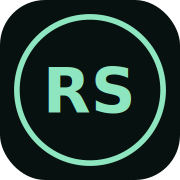
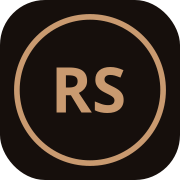
Add theme audit report and implement theme updates
- Consolidated theme tokens into a coffee/champagne palette
- Removed green/teal tokens and updated related assets
- Improved theme behavior and accessibility features
- Conducted contrast checks ensuring compliance with WCAG AA standards
- Documented findings for the admin panel and validation results
- Updated relevant files for theme changes and added hero image field for admin

Changed region(s): [[0.0556, 0.0556, 0.9444, 0.9444], [0.25, 0.3611, 0.75, 0.6389]]

diff --git a/frontend/web/src/styles/global.css b/frontend/web/src/styles/global.css
@@ -1,22 +1,43 @@
-@import url("https://fonts.googleapis.com/css2?family=DM+Sans:wght@400;500;600;700&family=Fraunces:opsz,wght@9..144,500;9..144,600;9..144,700&display=swap");
-@import url('https://fonts.googleapis.com/css2?family=DM+Sans:wght@400;500;600;700&family=Space+Grotesk:wght@400;500;600;700&display=swap');
+@import url("https://fonts.googleapis.com/css2?family=DM+Sans:wght@400;500;600;700&family=Space+Grotesk:wght@400;500;600;700&family=Fraunces:opsz,wght@9..144,500;9..144,600;9..144,700&display=swap");
 
 :root{
-  --bg:#07110f;--bg2:#0b1714;--surface:#10211d;--text:#f3f8f6;--muted:#9baaa5;
-  --line:rgba(243,248,246,.12);--accent:#c99a70;--accent2:#a97750;--white:#fff;--on-accent:#06110d;
+  color-scheme:dark;
+  --bg:#160f0c;
+  --bg2:#211611;
+  --surface:#2b1d16;
+  --text:#f5eee6;
+  --muted:#b7a79a;
+  --line:rgba(245,238,230,.12);
+  --accent:#c99a70;
+  --accent2:#a97750;
+  --accent-soft:rgba(201,154,112,.12);
+  --white:#fff8f0;
+  --on-accent:#1b110c;
+  --shadow:0 24px 80px rgba(0,0,0,.28);
 }
 :root[data-theme="light"]{
-  --bg:#f5f8f6;--bg2:#edf3ef;--surface:#fff;--text:#0a1713;--muted:#61716b;
-  --line:rgba(10,23,19,.13);--accent:#9b6847;--accent2:#785039;--white:#0a1713;--on-accent:#f5f8f6;
+  color-scheme:light;
+  --bg:#f5f0e9;
+  --bg2:#ebe1d6;
+  --surface:#fffaf4;
+  --text:#241912;
+  --muted:#75675c;
+  --line:rgba(36,25,18,.14);
+  --accent:#94613f;
+  --accent2:#785039;
+  --accent-soft:rgba(148,97,63,.13);
+  --white:#241912;
+  --on-accent:#fffaf4;
+  --shadow:0 24px 80px rgba(66,43,27,.12);
 }
-*{box-sizing:border-box}html{scroll-behavior:auto}body{margin:0;background:var(--bg);color:var(--text);font-family:"DM Sans",sans-serif;line-height:1.6}a{color:inherit;text-decoration:none}button,input,textarea{font:inherit}button{color:inherit}.container{width:min(1200px,calc(100% - 48px));margin:auto}.section-pad{padding:130px 0}.muted,.large-muted{color:var(--muted)}.large-muted{font-size:1.3rem;line-height:1.6;max-width:560px}.eyebrow{display:inline-flex;gap:8px;font-size:.68rem;letter-spacing:.18em;font-weight:700;color:var(--accent)}em{font-family:"Space Grotesk",sans-serif;color:var(--accent);font-style:normal}.scroll-progress{position:fixed;z-index:1000;left:0;top:0;width:100%;height:2px;background:transparent}.scroll-progress span{display:block;width:100%;height:100%;background:var(--accent);transform-origin:left}.nav-wrap{position:fixed;z-index:900;top:0;left:0;width:100%;background:linear-gradient(var(--bg),transparent);padding:18px 0}.nav{display:flex;align-items:center;justify-content:space-between}.brand{display:flex;align-items:center;gap:10px;font-size:.75rem;letter-spacing:.12em}.brand span{display:grid;place-items:center;width:34px;height:34px;border:1px solid var(--accent);border-radius:50%;color:var(--accent);font-weight:700;font-size:.72rem}.desktop-nav{display:flex;align-items:center;gap:20px}.desktop-nav a{font-size:.72rem;color:var(--muted);transition:.25s}.desktop-nav a:hover,.desktop-nav a.active{color:var(--text)}.nav-resume{display:flex;gap:5px;align-items:center;border:1px solid var(--line);padding:9px 12px;border-radius:999px}.icon-btn,.mobile-menu{border:1px solid var(--line);background:rgba(255,255,255,.03);width:38px;height:38px;border-radius:50%;display:grid;place-items:center;cursor:pointer}.mobile-menu{display:none}.mobile-overlay{position:fixed;inset:0;background:var(--bg);z-index:1001;padding:22px 24px;animation:fade .3s ease}.mobile-top{display:flex;justify-content:space-between}.mobile-links{display:flex;flex-direction:column;gap:10px;margin-top:100px}.mobile-links a{font:600 clamp(2.4rem,10vw,5rem) "Space Grotesk";color:var(--muted);animation:slideIn .55s both;animation-delay:calc(var(--i)*.06s)}.mobile-links a:hover{color:var(--text)}.mobile-foot{position:absolute;bottom:25px;color:var(--muted);font-size:.7rem;letter-spacing:.15em}.hero{min-height:100svh;position:relative;overflow:hidden;display:flex;align-items:center}.hero-grid{position:absolute;inset:0;background-image:linear-gradient(var(--line) 1px,transparent 1px),linear-gradient(90deg,var(--line) 1px,transparent 1px);background-size:90px 90px;mask-image:linear-gradient(to bottom,transparent,black 25%,black 75%,transparent);opacity:.25}.hero-glow{position:absolute;width:50vw;height:50vw;right:-10vw;top:5vh;border-radius:50%;background:radial-gradient(circle,rgba(201,154,112,.15),transparent 65%);filter:blur(20px)}.hero-inner{display:grid;grid-template-columns:1.15fr .85fr;align-items:center;gap:30px;position:relative}.hero-copy{padding-top:70px}.hero-eyebrow{animation:rise .8s .4s both}.hero h1,.page-hero h1{font:600 clamp(3rem,6.2vw,6.4rem)/.95 "Space Grotesk";letter-spacing:-.055em;margin:25px 0 30px;max-width:950px}.page-hero h1{font-size:clamp(2.1rem,4.2vw,3.6rem);line-height:1.08;margin:20px 0 22px}.hero h1 span{display:block}.hero h1 em{display:block}.hero-copy>p{max-width:600px;color:var(--muted);font-size:1.05rem}.hero-actions{display:flex;gap:12px;margin-top:35px}.magnetic-btn{display:inline-flex;align-items:center;gap:9px;background:var(--accent);color:var(--on-accent);border:0;padding:13px 17px;border-radius:999px;font-weight:700;font-size:.78rem;cursor:pointer;transition:transform .25s,box-shadow .25s}.magnetic-btn:hover{transform:translateY(-3px);box-shadow:0 15px 35px rgba(201,154,112,.14)}.magnetic-btn.secondary{background:transparent;color:var(--text);border:1px solid var(--line)}.hero-orb{height:600px;position:relative}.three-orb{height:100%;width:100%;min-height:400px}.orb-label{position:absolute;bottom:20%;right:4%;font-size:.62rem;letter-spacing:.2em;color:var(--muted)}.hero-bottom{position:absolute;bottom:25px;left:50%;transform:translateX(-50%);display:flex;justify-content:space-between;color:var(--muted);font-size:.62rem;letter-spacing:.18em}.statement{background:var(--surface)}.statement-grid{display:grid;grid-template-columns:1fr 3fr;gap:30px}.statement h2,.split h2,.cta h2,.contact-grid h2,.research-intro h2{font:500 clamp(1.8rem,3.6vw,3.6rem)/1.1 "Space Grotesk";letter-spacing:-.04em;margin:0}.section-title{display:grid;grid-template-columns:1fr 1fr;gap:40px;margin-bottom:70px}.section-title h2{font:500 clamp(1.8rem,3.2vw,3rem)/1.1 "Space Grotesk";letter-spacing:-.04em;margin:14px 0 0}.section-title p{color:var(--muted);max-width:520px;margin:auto 0}.project-grid{display:grid;grid-template-columns:repeat(2,1fr);gap:65px 25px}.project-card:nth-child(odd){margin-top:80px}.project-media{aspect-ratio:1.5;overflow:hidden;position:relative;background:var(--surface)}.project-media img{width:100%;height:100%;object-fit:cover;transition:transform .7s cubic-bezier(.2,.8,.2,1)}.project-card:hover img{transform:scale(1.04)}.project-index{position:absolute;left:18px;top:18px;font-size:.65rem;color:var(--accent)}.project-view{position:absolute;right:16px;bottom:16px;background:var(--accent);color:var(--on-accent);padding:11px 13px;border-radius:50px;display:flex;gap:5px;align-items:center;font-size:.68rem;font-weight:700;transform:translateY(8px);opacity:0;transition:.3s}.project-card:hover .project-view{opacity:1;transform:none}.project-info{display:flex;justify-content:space-between;gap:20px;padding:18px 2px}.project-info h3{font:500 clamp(1.5rem,2.5vw,2.3rem) "Space Grotesk";margin:7px 0 0}.project-year{font-size:.7rem;color:var(--muted);padding-top:23px}.center-link{text-align:center;margin-top:65px}.center-link a,.text-link{display:inline-flex;align-items:center;gap:6px;color:var(--accent);border-bottom:1px solid var(--line);padding-bottom:4px}.marquee{overflow:hidden;border-block:1px solid var(--line);white-space:nowrap;padding:22px 0;color:var(--accent);font:600 1rem "Space Grotesk";letter-spacing:.1em}.marquee-track{display:flex;width:max-content;animation:marquee 16s linear infinite}.marquee-track span{padding-right:0}.dark-panel{background:#050b09}.split{display:grid;grid-template-columns:1fr 1fr;gap:60px;align-items:center}.cta{background:var(--accent);color:var(--on-accent)}.cta .eyebrow{color:var(--on-accent)}.cta h2 em{color:var(--on-accent)}.page-hero{padding:190px 0 110px;background:radial-gradient(circle at 80% 20%,rgba(201,154,112,.08),transparent 32%);position:relative;overflow:hidden}.page-hero-glow{position:absolute;width:38vw;height:38vw;right:-8vw;top:-8vh;border-radius:50%;background:radial-gradient(circle,rgba(201,154,112,.14),transparent 65%);filter:blur(30px);pointer-events:none}.page-hero h1{max-width:1000px}.page-hero p{max-width:700px;color:var(--muted);font-size:1.1rem}.two-col{display:grid;grid-template-columns:1.2fr .8fr;gap:90px}.timeline article{border-top:1px solid var(--line);padding:28px 0}.timeline article>span{font-size:.7rem;color:var(--accent)}.timeline h3{font:500 1.55rem "Space Grotesk";margin:7px 0}.timeline b{font-size:.85rem}.timeline p{color:var(--muted);max-width:620px}.about-card{background:var(--surface);padding:40px;align-self:start;position:sticky;top:100px}.interest-list{display:flex;flex-wrap:wrap;gap:8px;margin:25px 0}.interest-list span,.skill-tags span,.detail-tags span{border:1px solid var(--line);padding:9px 12px;border-radius:999px;color:var(--muted);font-size:.72rem}.about-contact{border-top:1px solid var(--line);padding-top:25px;color:var(--muted);font-size:.8rem}.about-contact svg{vertical-align:middle;color:var(--accent);margin-right:8px}.skills-layout{display:grid;grid-template-columns:1fr 1fr;gap:1px;background:var(--line)}.skill-block{background:var(--bg);padding:45px;min-height:250px;position:relative}.skill-no{color:var(--accent);font-size:.65rem}.skill-block h3{font:500 2rem "Space Grotesk";margin:15px 0 25px}.skill-tags{display:flex;flex-wrap:wrap;gap:8px}.experience-list{border-top:1px solid var(--line)}.experience-item{display:grid;grid-template-columns:.6fr 1.4fr;gap:50px;padding:60px 0;border-bottom:1px solid var(--line)}.exp-year{color:var(--muted);font-size:.8rem}.experience-item h2{font:500 clamp(1.7rem,3.2vw,3.2rem) "Space Grotesk";margin:8px 0}.experience-item h4{color:var(--accent);margin:0 0 18px;font-size:.9rem}.experience-item p{max-width:700px;color:var(--muted)}.research-intro{display:grid;grid-template-columns:1fr 1fr;align-items:center}.research-intro .three-orb{height:500px}.light-section{background:var(--surface)}.publication-list article{display:grid;grid-template-columns:80px 1fr;gap:25px;border-top:1px solid var(--line);padding:32px 0}.publication-list article>span{color:var(--accent)}.publication-list h3{font:500 1.5rem/1.25 "Space Grotesk";margin:0 0 10px}.publication-list p{color:var(--muted)}.publication-list a{color:var(--accent);font-size:.8rem}.award-grid{display:grid;grid-template-columns:repeat(2,1fr);gap:1px;background:var(--line)}.award-grid div{background:var(--bg);padding:28px;display:grid;grid-template-columns:40px 1fr;gap:10px}.award-grid span{color:var(--accent);font-size:.7rem}.service-list{border-top:1px solid var(--line)}.service-list article{display:grid;grid-template-columns:70px 1fr 1fr 30px;align-items:center;gap:20px;padding:35px 0;border-bottom:1px solid var(--line)}.service-list article>span{color:var(--accent);font-size:.7rem}.service-list h2{font:500 2.3rem "Space Grotesk";margin:0}.service-list p{color:var(--muted);margin:0}.resume-actions{display:flex;justify-content:flex-end;gap:10px;margin-bottom:30px}.resume-sheet{background:#fff;color:#10211d;padding:60px;box-shadow:0 30px 80px rgba(0,0,0,.25)}.resume-head{display:flex;justify-content:space-between;border-bottom:2px solid #10211d;padding-bottom:25px}.resume-head h2{font:700 2.5rem "Space Grotesk";margin:0}.resume-head p{margin:5px 0}.resume-head span{font-size:.78rem;color:#61716b}.resume-mark{width:65px;height:65px;border-radius:50%;background:#10211d;color:#c99a70;display:grid;place-items:center;font-weight:700}.resume-columns{display:grid;grid-template-columns:1.2fr .8fr;gap:55px}.resume-section{padding-top:32px}.resume-section h3{font:700 1rem "Space Grotesk";text-transform:uppercase;letter-spacing:.12em;border-bottom:1px solid #c8d4cf;padding-bottom:10px}.resume-entry{padding:12px 0}.resume-entry b{display:block;font-size:.9rem}.resume-entry span{display:block;color:#4f7969;font-size:.72rem;margin:3px 0}.resume-entry strong{font-size:.78rem}.resume-entry p,.resume-section li,.skill-line p{font-size:.76rem;color:#5d6c66}.resume-section ul{padding-left:20px}.skill-line{padding:7px 0}.skill-line b{font-size:.75rem}.contact-grid{display:grid;grid-template-columns:1fr 1fr;gap:100px}.contact-info{display:flex;flex-direction:column;gap:17px;margin-top:40px}.contact-info a,.contact-info span{display:flex;align-items:center;gap:12px;color:var(--muted);font-size:.9rem}.contact-info svg{color:var(--accent)}.contact-form{display:flex;flex-direction:column;gap:20px}.contact-form label{font-size:.72rem;color:var(--muted);display:flex;flex-direction:column;gap:7px}.contact-form input,.contact-form textarea{border:0;border-bottom:1px solid var(--line);background:transparent;color:var(--text);padding:12px 0;outline:none;resize:vertical}.contact-form input:focus,.contact-form textarea:focus{border-color:var(--accent)}.form-status{font-size:.75rem;color:var(--accent)}.project-detail-hero{padding:0 0 70px}.project-detail-hero img{width:100%;display:block}.detail-grid{display:grid;grid-template-columns:.65fr 1.35fr;gap:100px}.detail-tags{display:flex;flex-wrap:wrap;gap:8px;margin:15px 0 35px}.detail-label{margin-top:15px}.detail-copy{display:flex;flex-direction:column;gap:20px}.detail-copy h2{font:500 clamp(1.7rem,3.2vw,3.2rem) "Space Grotesk";line-height:1.1;margin:0 0 55px}.detail-copy p{color:var(--muted);font-size:1.05rem;max-width:700px;margin:0 0 40px}.footer{padding:110px 0 25px;background:#050b09;--text:#f3f8f6;--muted:#9baaa5;--accent:#c99a70;--line:rgba(243,248,246,.12);color:var(--text)}.footer-top{display:flex;flex-wrap:wrap;gap:24px;justify-content:space-between;align-items:end;border-bottom:1px solid var(--line);padding-bottom:70px}.footer h2{font:500 clamp(2.2rem,5vw,4.8rem)/1.02 "Space Grotesk";letter-spacing:-.05em;margin:18px 0 0}.circle-arrow{width:70px;height:70px;border:1px solid var(--line);border-radius:50%;display:grid;place-items:center;color:var(--accent);flex-shrink:0;cursor:pointer;position:relative;z-index:5}.footer-grid{display:grid;grid-template-columns:1.3fr .7fr .7fr;gap:60px;padding:45px 0;border-bottom:1px solid var(--line)}.footer-links,.footer-social{display:flex;flex-direction:column;gap:10px}.footer-links a,.footer-social a{font-size:.78rem;color:var(--muted);display:flex;gap:8px;align-items:center}.footer-bottom{display:flex;justify-content:space-between;padding-top:20px;color:#6f7e78;font-size:.6rem;letter-spacing:.1em}.not-found{min-height:70vh}.cursor-dot,.cursor-ring{position:fixed;z-index:2000;pointer-events:none;left:-5px;top:-5px;border-radius:50%;transform:translate3d(-100px,-100px,0)}.cursor-dot{width:7px;height:7px;background:var(--accent)}.cursor-ring{width:34px;height:34px;border:1px solid var(--accent);margin-left:-14px;margin-top:-14px;transition:width .25s,height .25s,margin .25s,background .25s}.cursor-hover~.cursor-ring{width:55px;height:55px;margin-left:-24px;margin-top:-24px;background:rgba(201,154,112,.08)}.loader{position:fixed;z-index:1999;inset:0;background:var(--bg);display:flex;align-items:center;justify-content:center;flex-direction:column}.loader-mark{font:700 3rem "Space Grotesk";color:var(--accent)}.loader-line{width:150px;height:1px;background:var(--line);margin:20px}.loader-line span{display:block;width:100%;height:100%;background:var(--accent);transform-origin:left;animation:load 1.3s ease forwards}.loader p{font-size:.6rem;letter-spacing:.2em;color:var(--muted)}@keyframes load{from{transform:scaleX(0)}to{transform:scaleX(1)}}@keyframes rise{from{opacity:0;transform:translateY(20px)}to{opacity:1;transform:none}}@keyframes fade{from{opacity:0}to{opacity:1}}@keyframes slideIn{from{opacity:0;transform:translateY(20px)}to{opacity:1;transform:none}}@keyframes marquee{to{transform:translateX(-50%)}}@media(max-width:900px){.desktop-nav{display:none}.mobile-menu{display:grid}.hero-inner,.two-col,.research-intro,.contact-grid,.resume-columns{grid-template-columns:1fr}.hero{padding-top:100px}.hero-orb{height:400px}.statement-grid,.split{grid-template-columns:1fr}.section-title{grid-template-columns:1fr}.project-grid{grid-template-columns:1fr}.project-card:nth-child(odd){margin-top:0}.experience-item{grid-template-columns:1fr;gap:10px}.skills-layout,.award-grid{grid-template-columns:1fr}.service-list article{grid-template-columns:50px 1fr 30px}.service-list p{grid-column:2/4}.resume-sheet{padding:35px}.footer-grid{grid-template-columns:1fr 1fr}.detail-grid{grid-template-columns:1fr;gap:30px}}@media(max-width:600px){.container{width:min(100% - 30px,1200px)}.section-pad{padding:85px 0}.hero h1,.page-hero h1{font-size:clamp(3.2rem,15vw,5rem)}.hero-orb{height:330px}.hero-actions{flex-direction:column;align-items:flex-start}.hero-bottom{font-size:.5rem}.project-info{flex-direction:column}.project-year{padding:0}.skill-block{padding:30px}.footer-top{align-items:flex-start}.footer-grid{grid-template-columns:1fr}.footer-bottom{flex-direction:column;gap:8px}.resume-sheet{padding:22px}.resume-head h2{font-size:1.7rem}.resume-mark{width:50px;height:50px}.service-list h2{font-size:1.5rem}.service-list article{grid-template-columns:40px 1fr 25px}.service-list p{grid-column:2/4}.cursor-dot,.cursor-ring{display:none}}@media print{body{background:#fff;color:#10211d}.nav-wrap,.footer,.scroll-progress,.cursor-dot,.cursor-ring,.resume-actions,.page-hero{display:none!important}.resume-sheet{box-shadow:none;width:100%;margin:0;padding:0}.resume-head{margin-top:0}.resume-section{break-inside:avoid}.resume-entry{break-inside:avoid}.container{width:100%}}
+*{box-sizing:border-box}html{scroll-behavior:auto}body{margin:0;background:var(--bg);color:var(--text);font-family:"DM Sans",sans-serif;line-height:1.6}a{color:inherit;text-decoration:none}button,input,textarea{font:inherit}button{color:inherit}.container{width:min(1200px,calc(100% - 48px));margin:auto}.section-pad{padding:130px 0}.muted,.large-muted{color:var(--muted)}.large-muted{font-size:1.3rem;line-height:1.6;max-width:560px}.eyebrow{display:inline-flex;gap:8px;font-size:.68rem;letter-spacing:.18em;font-weight:700;color:var(--accent)}em{font-family:"Space Grotesk",sans-serif;color:var(--accent);font-style:normal}.scroll-progress{position:fixed;z-index:1000;left:0;top:0;width:100%;height:2px;background:transparent}.scroll-progress span{display:block;width:100%;height:100%;background:var(--accent);transform-origin:left}.nav-wrap{position:fixed;z-index:900;top:0;left:0;width:100%;background:linear-gradient(var(--bg),transparent);padding:18px 0}.nav{display:flex;align-items:center;justify-content:space-between}.brand{display:flex;align-items:center;gap:10px;font-size:.75rem;letter-spacing:.12em}.brand span{display:grid;place-items:center;width:34px;height:34px;border:1px solid var(--accent);border-radius:50%;color:var(--accent);font-weight:700;font-size:.72rem}.desktop-nav{display:flex;align-items:center;gap:20px}.desktop-nav a{font-size:.72rem;color:var(--muted);transition:.25s}.desktop-nav a:hover,.desktop-nav a.active{color:var(--text)}.nav-resume{display:flex;gap:5px;align-items:center;border:1px solid var(--line);padding:9px 12px;border-radius:999px}.icon-btn,.mobile-menu{border:1px solid var(--line);background:rgba(255,255,255,.03);width:38px;height:38px;border-radius:50%;display:grid;place-items:center;cursor:pointer}.mobile-menu{display:none}.mobile-overlay{position:fixed;inset:0;background:var(--bg);z-index:1001;padding:22px 24px;animation:fade .3s ease}.mobile-top{display:flex;justify-content:space-between}.mobile-links{display:flex;flex-direction:column;gap:10px;margin-top:100px}.mobile-links a{font:600 clamp(2.4rem,10vw,5rem) "Space Grotesk";color:var(--muted);animation:slideIn .55s both;animation-delay:calc(var(--i)*.06s)}.mobile-links a:hover{color:var(--text)}.mobile-foot{position:absolute;bottom:25px;color:var(--muted);font-size:.7rem;letter-spacing:.15em}.hero{min-height:100svh;position:relative;overflow:hidden;display:flex;align-items:center}.hero-grid{position:absolute;inset:0;background-image:linear-gradient(var(--line) 1px,transparent 1px),linear-gradient(90deg,var(--line) 1px,transparent 1px);background-size:90px 90px;mask-image:linear-gradient(to bottom,transparent,black 25%,black 75%,transparent);opacity:.25}.hero-glow{position:absolute;width:50vw;height:50vw;right:-10vw;top:5vh;border-radius:50%;background:radial-gradient(circle,rgba(201,154,112,.15),transparent 65%);filter:blur(20px)}.hero-inner{display:grid;grid-template-columns:1.15fr .85fr;align-items:center;gap:30px;position:relative}.hero-copy{padding-top:70px}.hero-eyebrow{animation:rise .8s .4s both}.hero h1,.page-hero h1{font:600 clamp(3rem,6.2vw,6.4rem)/.95 "Space Grotesk";letter-spacing:-.055em;margin:25px 0 30px;max-width:950px}.page-hero h1{font-size:clamp(2.1rem,4.2vw,3.6rem);line-height:1.08;margin:20px 0 22px}.hero h1 span{display:block}.hero h1 em{display:block}.hero-copy>p{max-width:600px;color:var(--muted);font-size:1.05rem}.hero-actions{display:flex;gap:12px;margin-top:35px}.magnetic-btn{display:inline-flex;align-items:center;gap:9px;background:var(--accent);color:var(--on-accent);border:0;padding:13px 17px;border-radius:999px;font-weight:700;font-size:.78rem;cursor:pointer;transition:transform .25s,box-shadow .25s}.magnetic-btn:hover{transform:translateY(-3px);box-shadow:0 15px 35px rgba(201,154,112,.14)}.magnetic-btn.secondary{background:transparent;color:var(--text);border:1px solid var(--line)}.hero-orb{height:600px;position:relative}.three-orb{height:100%;width:100%;min-height:400px}.orb-label{position:absolute;bottom:20%;right:4%;font-size:.62rem;letter-spacing:.2em;color:var(--muted)}.hero-bottom{position:absolute;bottom:25px;left:50%;transform:translateX(-50%);display:flex;justify-content:space-between;color:var(--muted);font-size:.62rem;letter-spacing:.18em}.statement{background:var(--surface)}.statement-grid{display:grid;grid-template-columns:1fr 3fr;gap:30px}.statement h2,.split h2,.cta h2,.contact-grid h2,.research-intro h2{font:500 clamp(1.8rem,3.6vw,3.6rem)/1.1 "Space Grotesk";letter-spacing:-.04em;margin:0}.section-title{display:grid;grid-template-columns:1fr 1fr;gap:40px;margin-bottom:70px}.section-title h2{font:500 clamp(1.8rem,3.2vw,3rem)/1.1 "Space Grotesk";letter-spacing:-.04em;margin:14px 0 0}.section-title p{color:var(--muted);max-width:520px;margin:auto 0}.project-grid{display:grid;grid-template-columns:repeat(2,1fr);gap:65px 25px}.project-card:nth-child(odd){margin-top:80px}.project-media{aspect-ratio:1.5;overflow:hidden;position:relative;background:var(--surface)}.project-media img{width:100%;height:100%;object-fit:cover;transition:transform .7s cubic-bezier(.2,.8,.2,1)}.project-card:hover img{transform:scale(1.04)}.project-index{position:absolute;left:18px;top:18px;font-size:.65rem;color:var(--accent)}.project-view{position:absolute;right:16px;bottom:16px;background:var(--accent);color:var(--on-accent);padding:11px 13px;border-radius:50px;display:flex;gap:5px;align-items:center;font-size:.68rem;font-weight:700;transform:translateY(8px);opacity:0;transition:.3s}.project-card:hover .project-view{opacity:1;transform:none}.project-info{display:flex;justify-content:space-between;gap:20px;padding:18px 2px}.project-info h3{font:500 clamp(1.5rem,2.5vw,2.3rem) "Space Grotesk";margin:7px 0 0}.project-year{font-size:.7rem;color:var(--muted);padding-top:23px}.center-link{text-align:center;margin-top:65px}.center-link a,.text-link{display:inline-flex;align-items:center;gap:6px;color:var(--accent);border-bottom:1px solid var(--line);padding-bottom:4px}.marquee{overflow:hidden;border-block:1px solid var(--line);white-space:nowrap;padding:22px 0;color:var(--accent);font:600 1rem "Space Grotesk";letter-spacing:.1em}.marquee-track{display:flex;width:max-content;animation:marquee 16s linear infinite}.marquee-track span{padding-right:0}.dark-panel{background:var(--bg2)}.split{display:grid;grid-template-columns:1fr 1fr;gap:60px;align-items:center}.cta{background:var(--accent);color:var(--on-accent)}.cta .eyebrow{color:var(--on-accent)}.cta h2 em{color:var(--on-accent)}.page-hero{padding:190px 0 110px;background:radial-gradient(circle at 80% 20%,rgba(201,154,112,.08),transparent 32%);position:relative;overflow:hidden}.page-hero-glow{position:absolute;width:38vw;height:38vw;right:-8vw;top:-8vh;border-radius:50%;background:radial-gradient(circle,rgba(201,154,112,.14),transparent 65%);filter:blur(30px);pointer-events:none}.page-hero h1{max-width:1000px}.page-hero p{max-width:700px;color:var(--muted);font-size:1.1rem}.two-col{display:grid;grid-template-columns:1.2fr .8fr;gap:90px}.timeline article{border-top:1px solid var(--line);padding:28px 0}.timeline article>span{font-size:.7rem;color:var(--accent)}.timeline h3{font:500 1.55rem "Space Grotesk";margin:7px 0}.timeline b{font-size:.85rem}.timeline p{color:var(--muted);max-width:620px}.about-card{background:var(--surface);padding:40px;align-self:start;position:sticky;top:100px}.interest-list{display:flex;flex-wrap:wrap;gap:8px;margin:25px 0}.interest-list span,.skill-tags span,.detail-tags span{border:1px solid var(--line);padding:9px 12px;border-radius:999px;color:var(--muted);font-size:.72rem}.about-contact{border-top:1px solid var(--line);padding-top:25px;color:var(--muted);font-size:.8rem}.about-contact svg{vertical-align:middle;color:var(--accent);margin-right:8px}.skills-layout{display:grid;grid-template-columns:1fr 1fr;gap:1px;background:var(--line)}.skill-block{background:var(--bg);padding:45px;min-height:250px;position:relative}.skill-no{color:var(--accent);font-size:.65rem}.skill-block h3{font:500 2rem "Space Grotesk";margin:15px 0 25px}.skill-tags{display:flex;flex-wrap:wrap;gap:8px}.experience-list{border-top:1px solid var(--line)}.experience-item{display:grid;grid-template-columns:.6fr 1.4fr;gap:50px;padding:60px 0;border-bottom:1px solid var(--line)}.exp-year{color:var(--muted);font-size:.8rem}.experience-item h2{font:500 clamp(1.7rem,3.2vw,3.2rem) "Space Grotesk";margin:8px 0}.experience-item h4{color:var(--accent);margin:0 0 18px;font-size:.9rem}.experience-item p{max-width:700px;color:var(--muted)}.research-intro{display:grid;grid-template-columns:1fr 1fr;align-items:center}.research-intro .three-orb{height:500px}.light-section{background:var(--surface)}.publication-list article{display:grid;grid-template-columns:80px 1fr;gap:25px;border-top:1px solid var(--line);padding:32px 0}.publication-list article>span{color:var(--accent)}.publication-list h3{font:500 1.5rem/1.25 "Space Grotesk";margin:0 0 10px}.publication-list p{color:var(--muted)}.publication-list a{color:var(--accent);font-size:.8rem}.award-grid{display:grid;grid-template-columns:repeat(2,1fr);gap:1px;background:var(--line)}.award-grid div{background:var(--bg);padding:28px;display:grid;grid-template-columns:40px 1fr;gap:10px}.award-grid span{color:var(--accent);font-size:.7rem}.service-list{border-top:1px solid var(--line)}.service-list article{display:grid;grid-template-columns:70px 1fr 1fr 30px;align-items:center;gap:20px;padding:35px 0;border-bottom:1px solid var(--line)}.service-list article>span{color:var(--accent);font-size:.7rem}.service-list h2{font:500 2.3rem "Space Grotesk";margin:0}.service-list p{color:var(--muted);margin:0}.resume-actions{display:flex;justify-content:flex-end;gap:10px;margin-bottom:30px}.resume-sheet{background:#fffaf4;color:#241912;padding:60px;box-shadow:0 30px 80px rgba(0,0,0,.25)}.resume-head{display:flex;justify-content:space-between;border-bottom:2px solid #241912;padding-bottom:25px}.resume-head h2{font:700 2.5rem "Space Grotesk";margin:0}.resume-head p{margin:5px 0}.resume-head span{font-size:.78rem;color:#75675c}.resume-mark{width:65px;height:65px;border-radius:50%;background:#241912;color:#c99a70;display:grid;place-items:center;font-weight:700}.resume-columns{display:grid;grid-template-columns:1.2fr .8fr;gap:55px}.resume-section{padding-top:32px}.resume-section h3{font:700 1rem "Space Grotesk";text-transform:uppercase;letter-spacing:.12em;border-bottom:1px solid #d9c9ba;padding-bottom:10px}.resume-entry{padding:12px 0}.resume-entry b{display:block;font-size:.9rem}.resume-entry span{display:block;color:#94613f;font-size:.72rem;margin:3px 0}.resume-entry strong{font-size:.78rem}.resume-entry p,.resume-section li,.skill-line p{font-size:.76rem;color:#75675c}.resume-section ul{padding-left:20px}.skill-line{padding:7px 0}.skill-line b{font-size:.75rem}.contact-grid{display:grid;grid-template-columns:1fr 1fr;gap:100px}.contact-info{display:flex;flex-direction:column;gap:17px;margin-top:40px}.contact-info a,.contact-info span{display:flex;align-items:center;gap:12px;color:var(--muted);font-size:.9rem}.contact-info svg{color:var(--accent)}.contact-form{display:flex;flex-direction:column;gap:20px}.contact-form label{font-size:.72rem;color:var(--muted);display:flex;flex-direction:column;gap:7px}.contact-form input,.contact-form textarea{border:0;border-bottom:1px solid var(--line);background:transparent;color:var(--text);padding:12px 0;outline:none;resize:vertical}.contact-form input:focus,.contact-form textarea:focus{border-color:var(--accent)}.form-status{font-size:.75rem;color:var(--accent)}.project-detail-hero{padding:0 0 70px}.project-detail-hero img{width:100%;display:block}.detail-grid{display:grid;grid-template-columns:.65fr 1.35fr;gap:100px}.detail-tags{display:flex;flex-wrap:wrap;gap:8px;margin:15px 0 35px}.detail-label{margin-top:15px}.detail-copy{display:flex;flex-direction:column;gap:20px}.detail-copy h2{font:500 clamp(1.7rem,3.2vw,3.2rem) "Space Grotesk";line-height:1.1;margin:0 0 55px}.detail-copy p{color:var(--muted);font-size:1.05rem;max-width:700px;margin:0 0 40px}.footer{padding:110px 0 25px;background:var(--bg2);color:var(--text)}.footer-top{display:flex;flex-wrap:wrap;gap:24px;justify-content:space-between;align-items:end;border-bottom:1px solid var(--line);padding-bottom:70px}.footer h2{font:500 clamp(2.2rem,5vw,4.8rem)/1.02 "Space Grotesk";letter-spacing:-.05em;margin:18px 0 0}.circle-arrow{width:70px;height:70px;border:1px solid var(--line);border-radius:50%;display:grid;place-items:center;color:var(--accent);flex-shrink:0;cursor:pointer;position:relative;z-index:5}.footer-grid{display:grid;grid-template-columns:1.3fr .7fr .7fr;gap:60px;padding:45px 0;border-bottom:1px solid var(--line)}.footer-links,.footer-social{display:flex;flex-direction:column;gap:10px}.footer-links a,.footer-social a{font-size:.78rem;color:var(--muted);display:flex;gap:8px;align-items:center}.footer-bottom{display:flex;justify-content:space-between;padding-top:20px;color:var(--muted);font-size:.6rem;letter-spacing:.1em}.not-found{min-height:70vh}.cursor-dot,.cursor-ring{position:fixed;z-index:2000;pointer-events:none;left:-5px;top:-5px;border-radius:50%;transform:translate3d(-100px,-100px,0)}.cursor-dot{width:7px;height:7px;background:var(--accent)}.cursor-ring{width:34px;height:34px;border:1px solid var(--accent);margin-left:-14px;margin-top:-14px;transition:width .25s,height .25s,margin .25s,background .25s}.cursor-hover~.cursor-ring{width:55px;height:55px;margin-left:-24px;margin-top:-24px;background:rgba(201,154,112,.08)}.loader{position:fixed;z-index:1999;inset:0;background:var(--bg);display:flex;align-items:center;justify-content:center;flex-direction:column}.loader-mark{font:700 3rem "Space Grotesk";color:var(--accent)}.loader-line{width:150px;height:1px;background:var(--line);margin:20px}.loader-line span{display:block;width:100%;height:100%;background:var(--accent);transform-origin:left;animation:load 1.3s ease forwards}.loader p{font-size:.6rem;letter-spacing:.2em;color:var(--muted)}@keyframes load{from{transform:scaleX(0)}to{transform:scaleX(1)}}@keyframes rise{from{opacity:0;transform:translateY(20px)}to{opacity:1;transform:none}}@keyframes fade{from{opacity:0}to{opacity:1}}@keyframes slideIn{from{opacity:0;transform:translateY(20px)}to{opacity:1;transform:none}}@keyframes marquee{to{transform:translateX(-50%)}}@media(max-width:900px){.desktop-nav{display:none}.mobile-menu{display:grid}.hero-inner,.two-col,.research-intro,.contact-grid,.resume-columns{grid-template-columns:1fr}.hero{padding-top:100px}.hero-orb{height:400px}.statement-grid,.split{grid-template-columns:1fr}.section-title{grid-template-columns:1fr}.project-grid{grid-template-columns:1fr}.project-card:nth-child(odd){margin-top:0}.experience-item{grid-template-columns:1fr;gap:10px}.skills-layout,.award-grid{grid-template-columns:1fr}.service-list article{grid-template-columns:50px 1fr 30px}.service-list p{grid-column:2/4}.resume-sheet{padding:35px}.footer-grid{grid-template-columns:1fr 1fr}.detail-grid{grid-template-columns:1fr;gap:30px}}@media(max-width:600px){.container{width:min(100% - 30px,1200px)}.section-pad{padding:85px 0}.hero h1,.page-hero h1{font-size:clamp(3.2rem,15vw,5rem)}.hero-orb{height:330px}.hero-actions{flex-direction:column;align-items:flex-start}.hero-bottom{font-size:.5rem}.project-info{flex-direction:column}.project-year{padding:0}.skill-block{padding:30px}.footer-top{align-items:flex-start}.footer-grid{grid-template-columns:1fr}.footer-bottom{flex-direction:column;gap:8px}.resume-sheet{padding:22px}.resume-head h2{font-size:1.7rem}.resume-mark{width:50px;height:50px}.service-list h2{font-size:1.5rem}.service-list article{grid-template-columns:40px 1fr 25px}.service-list p{grid-column:2/4}.cursor-dot,.cursor-ring{display:none}}@media print{body{background:#fff;color:#241912}.nav-wrap,.footer,.scroll-progress,.cursor-dot,.cursor-ring,.resume-actions,.page-hero{display:none!important}.resume-sheet{box-shadow:none;width:100%;margin:0;padding:0}.resume-head{margin-top:0}.resume-section{break-inside:avoid}.resume-entry{break-inside:avoid}.container{width:100%}}
 
 /* Premium v2 overrides — tighter portrait, richer interactions, stronger responsive behavior */
 :root{--accent-soft:rgba(201,154,112,.12);--shadow:0 24px 80px rgba(0,0,0,.28)}
-body{overflow-x:hidden;background-image:radial-gradient(circle at 15% 20%,rgba(201,154,112,.025),transparent 24%),radial-gradient(circle at 85% 70%,rgba(92,190,153,.03),transparent 26%)}
+body{overflow-x:hidden;background-image:radial-gradient(circle at 15% 20%,rgba(201,154,112,.025),transparent 24%),radial-gradient(circle at 85% 70%,rgba(201,154,112,.035),transparent 26%)}
 ::selection{background:var(--accent);color:var(--on-accent)}
-.nav-wrap{backdrop-filter:blur(10px);-webkit-backdrop-filter:blur(10px);background:linear-gradient(to bottom,rgba(7,17,15,.92),rgba(7,17,15,.55),transparent);}
-:root[data-theme="light"] .nav-wrap{background:linear-gradient(to bottom,rgba(245,248,246,.94),rgba(245,248,246,.58),transparent)}
+.nav-wrap{backdrop-filter:blur(10px);-webkit-backdrop-filter:blur(10px);background:linear-gradient(to bottom,color-mix(in srgb,var(--bg) 94%,transparent),color-mix(in srgb,var(--bg) 72%,transparent),transparent);}
+:root[data-theme="light"] .nav-wrap{background:linear-gradient(to bottom,color-mix(in srgb,var(--bg) 94%,transparent),color-mix(in srgb,var(--bg) 72%,transparent),transparent)}
 .desktop-nav a,.nav-resume,.icon-btn,.mobile-menu{transition:transform .25s ease,color .25s ease,border-color .25s ease,background .25s ease}
 .desktop-nav a:hover{transform:translateY(-2px);color:var(--accent)}
 .nav-resume:hover,.icon-btn:hover,.mobile-menu:hover{border-color:var(--accent);transform:translateY(-2px);background:var(--accent-soft)}
@@ -271,30 +292,6 @@ body{overflow-x:hidden;background-image:radial-gradient(circle at 15% 20%,rgba(2
    EDITORIAL COFFEE HERO — inspired by the supplied reference
    ========================================================= */
 
-:root{
-  --bg:#160f0c;
-  --bg2:#211611;
-  --surface:#2b1d16;
-  --text:#f5eee6;
-  --muted:#b7a79a;
-  --line:rgba(245,238,230,.12);
-  --accent:#c99a70;
-  --accent2:#a97750;
-  --white:#fff8f0;
-  --on-accent:#1b110c;
-}
-:root[data-theme="light"]{
-  --bg:#f5f0e9;
-  --bg2:#ebe1d6;
-  --surface:#fffaf4;
-  --text:#241912;
-  --muted:#75675c;
-  --line:rgba(36,25,18,.14);
-  --accent:#9b6847;
-  --accent2:#785039;
-  --white:#241912;
-  --on-accent:#fffaf4;
-}
 body{font-family:"DM Sans",sans-serif}
 em{font-family:"Fraunces",Georgia,serif!important;color:var(--accent)!important;font-style:normal}
 .nav-wrap{

diff --git a/frontend/web/src/App.jsx b/frontend/web/src/App.jsx
@@ -108,7 +108,7 @@ function Home() {
         </div>
         <div className="hero-visual" data-reveal="right">
           <div className="hero-photo">
-            <img src="/assets/hero-profile.jpg" alt={profile.shortName || profile.name || "Portfolio profile"}/>
+            <img src={profile.heroImage || "/assets/hero-profile.jpg"} alt={profile.shortName || profile.name || "Portfolio profile"}/>
           </div>
           <div className="hero-side-rail">
             <div className="hero-side-stat"><span>ACADEMIC</span><strong>{resultNumber(bachelors).toFixed(2)}</strong><small>B.Sc CGPA</small></div>
@@ -342,7 +342,16 @@ export default function App() {
   const notifyRef = useRef(() => {});
   notifyRef.current = () => setContentVersion((v) => v + 1);
   const stableNotify = useRef((...args) => notifyRef.current(...args)).current;
-  const [theme,setTheme] = useState(localStorage.getItem("theme") || "dark");
-  useEffect(()=>{ document.documentElement.dataset.theme = theme; localStorage.setItem("theme",theme); },[theme]);
+  const [theme,setTheme] = useState(() => {
+    try { return localStorage.getItem("theme") === "light" ? "light" : "dark"; }
+    catch { return "dark"; }
+  });
+  useEffect(()=>{
+    document.documentElement.dataset.theme = theme;
+    document.documentElement.style.colorScheme = theme;
+    try { localStorage.setItem("theme",theme); } catch {}
+    const themeColor = document.querySelector('meta[name="theme-color"]');
+    if (themeColor) themeColor.setAttribute("content", theme === "dark" ? "#160f0c" : "#f5f0e9");
+  },[theme]);
   return <><PortfolioContentSync onUpdate={stableNotify}/><Layout theme={theme} setTheme={setTheme}/></>;
 }

diff --git a/frontend/web/src/components/ThreeOrb.jsx b/frontend/web/src/components/ThreeOrb.jsx
@@ -1,9 +1,20 @@
 import { Canvas, useFrame } from "@react-three/fiber";
 import { Float, MeshDistortMaterial } from "@react-three/drei";
-import { useRef } from "react";
+import { useEffect, useRef } from "react";
 
 function Orb() {
   const ref = useRef();
+  const materialRef = useRef();
+  useEffect(() => {
+    const applyTheme = () => {
+      const isLight = document.documentElement.dataset.theme === "light";
+      materialRef.current?.color.set(isLight ? "#94613f" : "#c99a70");
+    };
+    applyTheme();
+    const observer = new MutationObserver(applyTheme);
+    observer.observe(document.documentElement, { attributes: true, attributeFilter: ["data-theme"] });
+    return () => observer.disconnect();
+  }, []);
   useFrame((state) => {
     ref.current.rotation.x = state.clock.elapsedTime * .12;
     ref.current.rotation.y = state.clock.elapsedTime * .18;
@@ -11,7 +22,7 @@ function Orb() {
   return <Float speed={1.3} rotationIntensity={.4} floatIntensity={1.2}>
     <mesh ref={ref} scale={2.05}>
       <icosahedronGeometry args={[1, 5]} />
-      <MeshDistortMaterial color="#8ee6c1" roughness=".22" metalness=".75" distort={.34} speed={1.5} />
+      <MeshDistortMaterial ref={materialRef} color="#c99a70" roughness=".22" metalness=".55" distort={.34} speed={1.5} />
     </mesh>
   </Float>;
 }

diff --git a/frontend/web/index.html b/frontend/web/index.html
@@ -4,6 +4,14 @@
     <meta charset="UTF-8" />
     <meta name="viewport" content="width=device-width, initial-scale=1.0" />
     <meta name="theme-color" content="#160f0c" />
+    <script>
+      try {
+        const savedTheme = localStorage.getItem("theme");
+        document.documentElement.dataset.theme = savedTheme === "light" ? "light" : "dark";
+      } catch {
+        document.documentElement.dataset.theme = "dark";
+      }
+    </script>
     <meta name="description" content="Rokeya Khatun Shorna — researcher, programmer and web developer." />
     <meta property="og:title" content="Rokeya Khatun Shorna — Portfolio" />
     <meta property="og:description" content="Researcher, programmer and web developer working across AI, machine learning, digital image processing and web technologies." />

diff --git a/frontend/web/src/components/Navbar.jsx b/frontend/web/src/components/Navbar.jsx
@@ -19,7 +19,7 @@ export default function Navbar({ theme, setTheme }) {
           <Link className="nav-resume" to="/resume">Resume <ArrowUpRight size={14}/></Link>
           <motion.button
             className="icon-btn"
-            aria-label="Toggle theme"
+            aria-label={theme === "dark" ? "Switch to light mode" : "Switch to dark mode"}
             onClick={() => setTheme(theme === "dark" ? "light" : "dark")}
             whileHover={{ scale: 1.08 }}
             whileTap={{ scale: 0.88, rotate: 180 }}

diff --git a/frontend/admin/src/data/portfolio.js b/frontend/admin/src/data/portfolio.js
@@ -2,6 +2,7 @@ export let profile = {
   name: "Rokeya Khatun Shorna",
   shortName: "Rokeya Shorna",
   image: "/assets/profile.png",
+  heroImage: "/assets/hero-profile.jpg",
   role: "Researcher • Programmer • Web Developer",
   email: "rokeyashorna5@gmail.com",
   phone: "+880 1788179121",

diff --git a/frontend/web/src/data/portfolio.js b/frontend/web/src/data/portfolio.js
@@ -2,6 +2,7 @@ export let profile = {
   name: "Rokeya Khatun Shorna",
   shortName: "Rokeya Shorna",
   image: "/assets/profile.png",
+  heroImage: "/assets/hero-profile.jpg",
   role: "Researcher • Programmer • Web Developer",
   email: "rokeyashorna5@gmail.com",
   phone: "+880 1788179121",

diff --git a/THEME-AUDIT-REPORT.md b/THEME-AUDIT-REPORT.md
@@ -1,0 +1,62 @@
+# Portfolio Visual & Theme Audit
+
+Audit date: 2026-11-27
+
+## Scope
+- Full web frontend source, styles, theme toggle, SVG artwork, favicon assets, and hero portrait wiring
+- Admin frontend styling and theme setup reviewed separately
+- Backend routes/config reviewed for UI theme impact (none; backend does not render UI)
+
+## Changes applied to the web frontend
+1. Consolidated the website's theme tokens into one coffee/champagne palette:
+   - Dark: espresso `#160F0C`, chocolate `#211611`, champagne `#C99A70`
+   - Light: warm ivory `#F5F0E9`, warm surface `#FFFAF4`, coffee accent `#94613F`
+2. Removed remaining green/teal tokens and tints from web CSS and SVG placeholders/project artwork.
+3. Replaced the old green-tinted research orb with a theme-aware champagne/coffee orb.
+4. Reworked fixed dark-green sections and footer backgrounds to use theme variables.
+5. Updated resume sheet colors to warm paper/coffee tones, including print styles.
+6. Updated favicon SVG, 16px/32px PNG, and Apple touch icon.
+7. Improved theme behavior:
+   - Saved light/dark choice is applied before React mounts to avoid a flash of the wrong theme.
+   - localStorage access has safe fallbacks.
+   - Browser color-scheme and mobile browser theme-color follow the selected theme.
+   - Theme toggle has an explicit accessible label.
+8. Added `profile.heroImage` to the default web/admin profile data so the hero portrait can be changed through the admin profile JSON later.
+
+## Contrast checks
+Ratios calculated for the core text/accent combinations (WCAG AA normal-text target: 4.5:1):
+- Dark body text: 16.48:1
+- Dark muted text: 8.13:1
+- Dark accent text: 7.53:1
+- Dark button text: 7.37:1
+- Light body text: 15.15:1
+- Light muted text: 4.81:1
+- Light accent text: 4.58:1
+- Light button text: 5.01:1
+
+All listed combinations meet or exceed 4.5:1.
+
+## Admin panel findings — intentionally not redesigned yet
+The admin panel has a separate stylesheet (`frontend/admin/src/style.css`) and does not inherit the website's CSS variables. It still uses the previous lime/green accent (`#D4F17B`, `#A8C65B`) and forest-green login artwork. No admin visual redesign was made in this pass, as the admin update is the next separate step. The `heroImage` profile field is present in its default profile data for future editing.
+
+## Validation performed
+- Web CSS parse: 0 errors
+- Admin CSS parse: 0 errors
+- Node syntax checks for `.js` files: 16 passed, 0 failed
+- Previous green palette tokens in web source/assets: 0 remaining
+- ZIP integrity: verified after packaging
+
+## Not run
+A full Vite production build/browser visual regression was not run because this project copy does not include `node_modules`. After installing dependencies, run `npm install` and then `npm run build` from the relevant frontend directory(s).
+
+## Files changed
+- `frontend/web/src/styles/global.css`
+- `frontend/web/src/App.jsx`
+- `frontend/web/src/components/Navbar.jsx`
+- `frontend/web/src/components/ThreeOrb.jsx`
+- `frontend/web/src/data/portfolio.js`
+- `frontend/web/index.html`
+- `frontend/web/public/assets/*` (theme-related SVG and favicon assets)
+- `frontend/admin/src/data/portfolio.js` (default profile field only)
+
+Backend files and admin styling were left unchanged.
